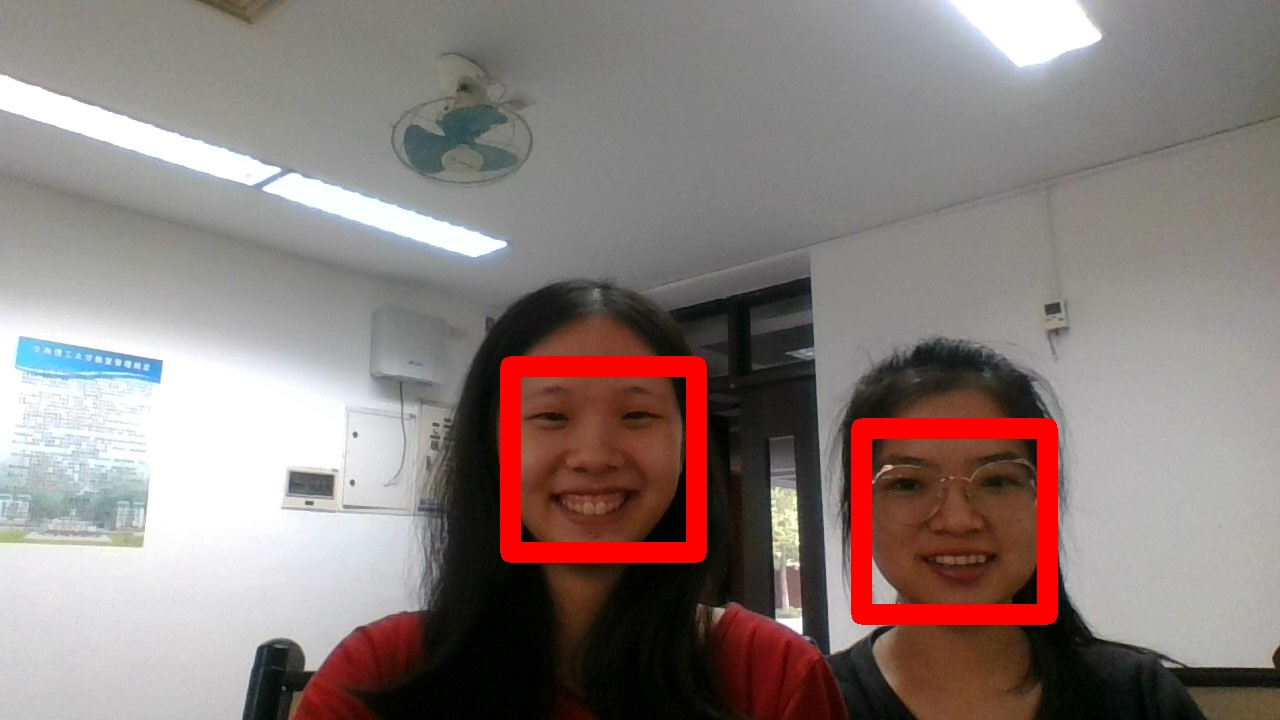
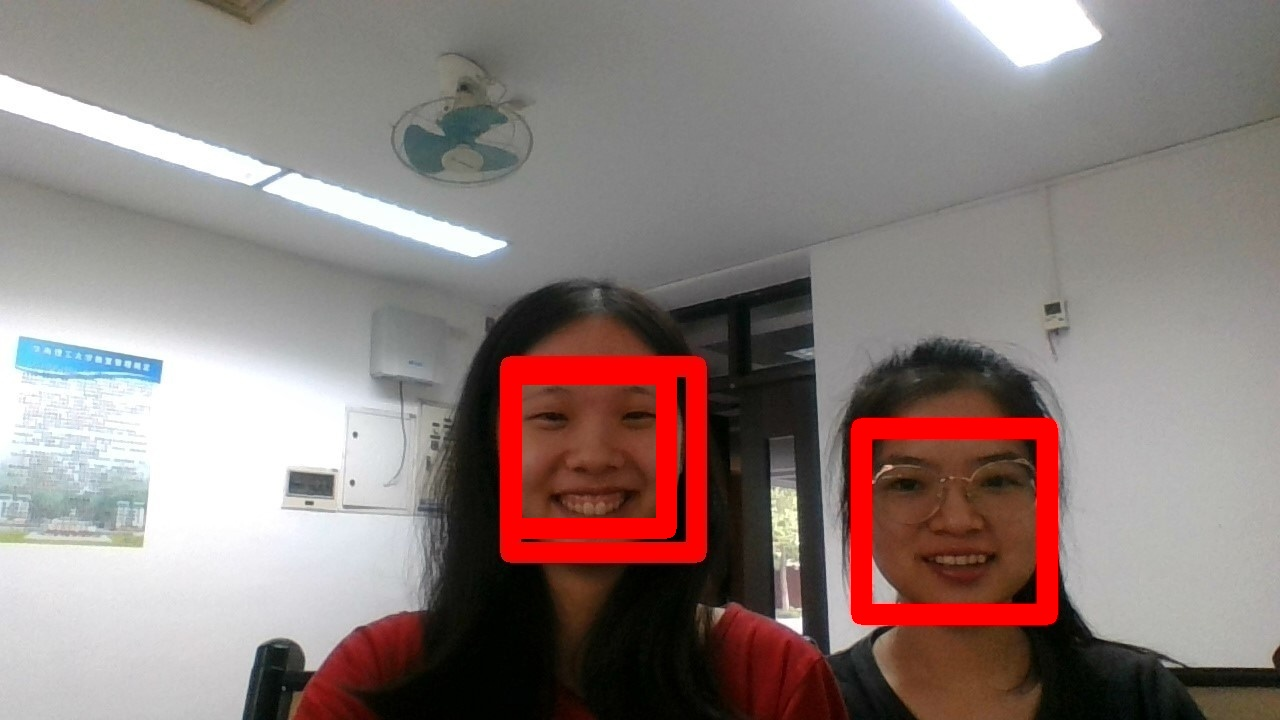
fix a bug

diff --git a/face.py b/face.py
@@ -41,31 +41,33 @@ def detect(image_path, known_face_encodings, known_face_names, images, unknown_s
     count = str(len(face_locations))
     face_names = []
     photo_str = []
+
     for face_encoding in face_encodings:
         # init
         name = "Unknown"
         known_str = unknown_str
-
         # face_compare摄像中的人脸与已知人脸对比
         # face_distance用于计算相似度，距离越小越相似
         # np.argmin取出最小值所在坐标
         matches = face_recognition.compare_faces(known_face_encodings, face_encoding)
         face_distances = face_recognition.face_distance(known_face_encodings, face_encoding)
         best_match_index = np.argmin(face_distances)
-        similarities.append(max(1 - np.linalg.norm(face_encodings - face_encoding, axis=1)))
-
+        # similarities.append(max(1 - np.linalg.norm(face_encodings - face_encoding, axis=1)))
+        similarities.append(1-face_distances[best_match_index])
         # 假如能匹配上，才作修改
-        if matches[best_match_index]:
-            name = known_face_names[best_match_index]
-            known_str = binToStr(images[best_match_index])
-            new_image = cv2.imread(image_path)
-            for (top, right, bottom, left), name in zip(face_locations, face_names):
-                print(top, right, bottom, left)
-                cv2.rectangle(new_image, (left, top), (right, bottom), (0, 0, 255), 20)
-            cv2.imwrite(image_path, new_image)
+        if(1-face_distances[best_match_index]>0.55):
+            if matches[best_match_index]:
+                name = known_face_names[best_match_index]
+                known_str = binToStr(images[best_match_index])
 
         face_names.append(name)
         photo_str.append(known_str)
+
+    new_image = cv2.imread(image_path)
+    for (top, right, bottom, left), name in zip(face_locations, face_names):
+        print(top, right, bottom, left)
+        cv2.rectangle(new_image, (left, top), (right, bottom), (0, 0, 255), 20)
+    cv2.imwrite(image_path, new_image)
 
     print("face_locations: ", face_locations)
     print("face_names: ", face_names)
